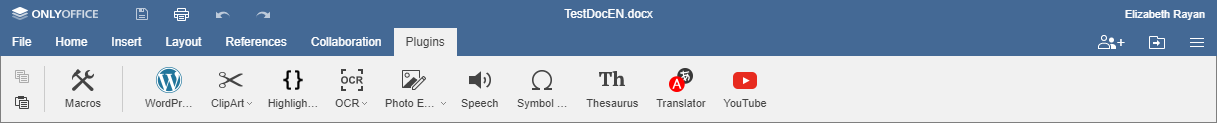
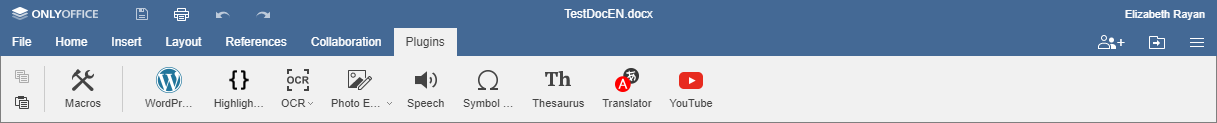
Changes to the documentation for version 5.4

Changed region(s): [[0.1561, 0.561, 0.4059, 0.7317], [0.1561, 0.8049, 0.6557, 0.878], [0.4371, 0.561, 0.6245, 0.7561]]

diff --git a/OfficeWeb/apps/documenteditor/main/resources/help/ru/UsageInstructions/AddWatermark.htm b/OfficeWeb/apps/documenteditor/main/resources/help/ru/UsageInstructions/AddWatermark.htm
@@ -1,0 +1,51 @@
+<!DOCTYPE html>
+<html>
+	<head>
+		<title>Добавление подложки</title>
+		<meta charset="utf-8" />
+        <meta name="description" content="Watermark allow to indicate your document status (for example, confidential, draft etc.)" />
+		<link type="text/css" rel="stylesheet" href="../editor.css" />
+        <script type="text/javascript" src="../callback.js"></script>
+        <script type="text/javascript" src="../search/js/page-search.js"></script>
+	</head>
+	<body>
+		<div class="mainpart">
+        <div class="search-field">
+            <input id="search" class="searchBar" placeholder="Search" type="text" onkeypress="doSearch(event)">
+        </div>
+			<h1>Добавление подложки</h1>
+            <p>Watermark allow to indicate your document status (for example, confidential, draft etc.).</p>
+			<p>Для добавления подложки в документ:</p>
+			<ol>
+                <li>перейдите на вкладку <b>Макет</b> на верхней панели инструментов,</li>
+                <li>нажмите на значок <img alt="Значок Подложка" src="../images/watermark.png" /> <b>Подложка</b> на верхней панели инструментов и выберите пункт меню <b>Настраиваемая подложка</b>,</li>
+                <li>откроется окно <b>Параметры подложки</b> window will appear where you can specify the watermark parameters,
+                    <p><img alt="Окно Параметры подложки" src="../images/watermark_settings.png" /></p>
+                </li>
+                <li>Выберите тип подложки, которую требуется вставить:
+                    <ul>
+                        <li>Используйте опцию <b>Текстовая подложка</b> и настройте доступные параметры:
+                            <ul>
+                                <li><b>Язык</b> - выберите из списка один из доступных языков,</li>
+                                <li><b>Текст</b> - выберите один из доступных примеров текста на выбранном языке. Для русского языка доступны следующие тексты подложки: <em>ДЛЯ СЛУЖЕБНОГО ПОЛЬЗОВАНИЯ</em>, <em>ДСП</em>, <em>КОПИРОВАТЬ НЕ РАЗРЕШАЕТСЯ</em>, <em>КОПИЯ</em>, <em>ЛИЧНОЕ</em>, <em>ОБРАЗЕЦ</em>, <em>ОРИГИНАЛ</em>, <em>СЕКРЕТНО</em>, <em>СОВ. СЕКРЕТНО</em>, <em>СОВЕРШЕННО СЕКРЕТНО</em>, <em>СРОЧНО</em>, <em>ЧЕРНОВИК</em>.</li>
+                                <li><b>Шрифт</b> - select the font name and size from the corresponding drop-down lists. Use the icons to set the font color or apply one of the decoration styles: <em>Bold</em>, <em>Italic</em>, <em>Underline</em>, <em>Strikeout</em>,</li>
+                                <li><b>Полупрозрачный</b> - check this box if you want to apply transparency,</li>
+                                <li><b>Расположение</b> - select the <b>По диагонали</b> or <b>По горизонтали</b> option.</li>
+                            </ul>
+                        </li>
+                        <li>Используйте опцию <b>Графическая подложка</b> и настройте доступные параметры:
+                            <ul>
+                                <li>Choose the image file source using one of the buttons: <b>Из файла</b> или <b>По URL</b> - the image will be displayed in the preview window on the right,</li>
+                                <li><b>Масштаб</b> - select the necessary scale value from the available ones: <em>Авто</em>, <em>500%</em>, <em>200%</em>, <em>150%</em>, <em>100%</em>, <em>50%</em>.</li>
+                            </ul>
+                        </li>
+                    </ul>
+                </li>
+                <li>Нажмите кнопку <b>OK</b>.</li>
+			</ol>
+            <p>To edit the added watermark, open the <b>Watermark Settings</b> window as described above, change the necessary parameters and click <b>OK</b>.</p>
+            <p>To delete the added watermark click the <img alt="Watermark icon" src="../images/watermark.png" /> <b>Watermark</b> icon at the <b>Layout</b> tab of the top toolbar and choose the <b>Remove Watermark</b> option from the menu. It's also possible to use the <b>None</b> option in the <b>Watermark Settings</b> window.</p>
+            
+		</div>
+	</body>
+</html>

diff --git a/OfficeWeb/apps/documenteditor/main/resources/help/ru/UsageInstructions/ViewDocInfo.htm b/OfficeWeb/apps/documenteditor/main/resources/help/ru/UsageInstructions/ViewDocInfo.htm
@@ -16,7 +16,16 @@
             <h1>Просмотр сведений о документе</h1>
             <p>Чтобы получить доступ к подробным сведениям о редактируемом документе, нажмите на вкладку <b>Файл</b> на верхней панели инструментов и выберите опцию <b>Сведения о документе...</b>.</p>
             <h3>Общие сведения</h3>
-            <p>Сведения о документе включают название документа, приложение, в котором был создан документ, а также статистику: количество страниц, абзацев, слов, символов, символов с пробелами. <span class="onlineDocumentFeatures">В <em>онлайн-версии</em> также отображаются следующие сведения: автор, размещение, дата создания.</span></p>
+            <p>Сведения о документе включают в себя ряд свойств файла, описывающих документ. Некоторые из этих свойств обновляются автоматически, а некоторые из них можно редактировать.</p>
+            <ul>
+                <li class="onlineDocumentFeatures"><b>Размещение</b> - папка в модуле <b>Документы</b>, в которой хранится файл. <b>Владелец</b> - имя пользователя, который создал файл. <b>Загружен</b> - дата и время создания файла. Эти свойства доступны только в <em>онлайн-версии</em>.</li>
+                <li><b>Статистика</b> - количество страниц, абзацев, слов, символов, символов с пробелами.</li>
+                <li><b>Название</b>, <b>Тема</b>, <b>Комментарий</b> - эти свойства позволяют упростить классификацию документов. Вы можете задать нужный текст в полях свойств.</li>
+                <li><b>Последнее изменение</b> - дата и время последнего изменения файла.</li>
+                <li class="onlineDocumentFeatures"><b>Автор последнего изменения</b> - имя пользователя, сделавшего последнее изменение в документе. Это свойство доступно только в <em>онлайн-версии</em>.</li>
+                <li><b>Приложение</b> - приложение, в котором был создан документ.</li>
+                <li><b>Автор</b> - имя человека, создавшего файл. В этом поле вы можете ввести нужное имя. Нажмите <em>Enter</em>, чтобы добавить новое поле, позволяющее указать еще одного автора.</li>
+            </ul>
             <div class="onlineDocumentFeatures">
                 <p class="note"><b>Примечание</b>: используя онлайн-редакторы, вы можете изменить название документа непосредственно из интерфейса редактора. Для этого нажмите на вкладку <b>Файл</b> на верхней панели инструментов и выберите опцию <b>Переименовать...</b>, затем введите нужное <b>Имя файла</b> в новом открывшемся окне и нажмите кнопку <b>OK</b>.</p>
             </div>    

diff --git a/OfficeWeb/apps/documenteditor/main/resources/help/en/UsageInstructions/AddWatermark.htm b/OfficeWeb/apps/documenteditor/main/resources/help/en/UsageInstructions/AddWatermark.htm
@@ -1,0 +1,51 @@
+<!DOCTYPE html>
+<html>
+	<head>
+		<title>Add watermark</title>
+		<meta charset="utf-8" />
+        <meta name="description" content="Watermark allow to indicate your document status (for example, confidential, draft etc.)" />
+		<link type="text/css" rel="stylesheet" href="../editor.css" />
+        <script type="text/javascript" src="../callback.js"></script>
+        <script type="text/javascript" src="../search/js/page-search.js"></script>
+	</head>
+	<body>
+		<div class="mainpart">
+        <div class="search-field">
+            <input id="search" class="searchBar" placeholder="Search" type="text" onkeypress="doSearch(event)">
+        </div>
+			<h1>Add watermark</h1>
+            <p>Watermark allow to indicate your document status (for example, confidential, draft etc.).</p>
+			<p>To add a watermark within a document:</p>
+			<ol>
+                <li>switch to the <b>Layout</b> tab of the top toolbar,</li>
+                <li>click the <img alt="Watermark icon" src="../images/watermark.png" /> <b>Watermark</b> icon at the top toolbar and choose the <b>Custom Watermark</b> option from the menu,</li>
+                <li>after that the <b>Watermark Settings</b> window will appear where you can specify the watermark parameters,
+                    <p><img alt="Watermark Settings window" src="../images/watermark_settings.png" /></p>
+                </li>
+                <li>Select a watermark type you wish to insert:
+                    <ul>
+                        <li>Use the <b>Text watermark</b> option and adjust the available parameters:
+                            <ul>
+                                <li><b>Language</b> - select one of the available languages from the list,</li>
+                                <li><b>Text</b> - select one of the available text examples on the selected language. For English, the following watermark texts are available: <em>ASAP</em>, <em>CONFIDENTIAL</em>, <em>COPY</em>, <em>DO NOT COPY</em>, <em>DRAFT</em>, <em>ORIGINAL</em>, <em>PERSONAL</em>, <em>SAMPLE</em>, <em>TOP SECRET</em>, <em>URGENT</em>.</li>
+                                <li><b>Font</b> - select the font name and size from the corresponding drop-down lists. Use the icons to set the font color or apply one of the decoration styles: <em>Bold</em>, <em>Italic</em>, <em>Underline</em>, <em>Strikeout</em>,</li>
+                                <li><b>Semitransparent</b> - check this box if you want to apply transparency,</li>
+                                <li><b>Layout</b> - select the <b>Diagonal</b> or <b>Horizontal</b> option.</li>
+                            </ul>
+                        </li>
+                        <li>Use the <b>Image watermark</b> option and adjust the available parameters:
+                            <ul>
+                                <li>Choose the image file source using one of the buttons: <b>From File</b> or <b>From URL</b> - the image will be displayed in the preview window on the right,</li>
+                                <li><b>Scale</b> - select the necessary scale value from the available ones: <em>Auto</em>, <em>500%</em>, <em>200%</em>, <em>150%</em>, <em>100%</em>, <em>50%</em>.</li>
+                            </ul>
+                        </li>
+                    </ul>
+                </li>
+                <li>Click the <b>OK</b> button.</li>
+			</ol>
+            <p>To edit the added watermark, open the <b>Watermark Settings</b> window as described above, change the necessary parameters and click <b>OK</b>.</p>
+            <p>To delete the added watermark click the <img alt="Watermark icon" src="../images/watermark.png" /> <b>Watermark</b> icon at the <b>Layout</b> tab of the top toolbar and choose the <b>Remove Watermark</b> option from the menu. It's also possible to use the <b>None</b> option in the <b>Watermark Settings</b> window.</p>
+            
+		</div>
+	</body>
+</html>

diff --git a/OfficeWeb/apps/documenteditor/main/resources/help/en/UsageInstructions/ViewDocInfo.htm b/OfficeWeb/apps/documenteditor/main/resources/help/en/UsageInstructions/ViewDocInfo.htm
@@ -16,9 +16,18 @@
 			<h1>View document information</h1>
 			<p>To access the detailed information about the currently edited document, click the <b>File</b> tab of the top toolbar and select the <b>Document Info...</b> option.</p>
 			<h3>General Information</h3>
-            <p>The document information includes document title, the application the document was created with and statistics: the number of pages, paragraphs, words, symbols, symbols with spaces. <span class="onlineDocumentFeatures">In the <em>online version</em>, the following information is also displayed: author, location, creation date.</span></p>
+            <p>The document information includes a number of the file properties which describe the document. Some of these properties are updated automatically, and some of them can be edited.</p>
+            <ul>
+                <li class ="onlineDocumentFeatures"><b>Location</b> - the folder in the <b>Documents</b> module where the file is stored. <b>Owner</b> - the name of the user who have created the file. <b>Uploaded</b> - the date and time when the file has been created. These properties are available in the <em>online version</em> only.</li>
+                <li><b>Statistics</b> - the number of pages, paragraphs, words, symbols, symbols with spaces.</li>
+                <li><b>Title</b>, <b>Subject</b>, <b>Comment</b> - these properties allow to simplify your documents classification. You can specify the necessary text in the properties fields.</li>
+                <li><b>Last Modified</b> - the date and time when the file was last modified.</li>
+                <li class="onlineDocumentFeatures"><b>Last Modified By</b> - the name of the user who have made the latest change in the document. This property is available in the <em>online version</em> only.</li>
+                <li><b>Application</b> - the application the document was created with.</li>
+                <li><b>Author</b> - the person who have created the file. You can enter the necessary name in this field. Press <em>Enter</em> to add a new field that allows to specify one more author.</li>
+            </ul>
             <div class="onlineDocumentFeatures">
-                <p class="note"><b>Note</b>: Online Editors allow you to change the document title directly from the editor interface. To do that, click the <b>File</b> tab of the top toolbar and select the <b>Rename...</b> option, then enter the necessary <b>File name</b> in a new window that opens and click <b>OK</b>.</p>
+                <p class="note"><b>Note</b>: Online Editors allow you to change the document name directly from the editor interface. To do that, click the <b>File</b> tab of the top toolbar and select the <b>Rename...</b> option, then enter the necessary <b>File name</b> in a new window that opens and click <b>OK</b>.</p>
             </div>  
                 <div class="onlineDocumentFeatures">
                     <h3>Permission Information</h3>

diff --git a/OfficeWeb/apps/presentationeditor/main/resources/help/ru/ProgramInterface/PluginsTab.htm b/OfficeWeb/apps/presentationeditor/main/resources/help/ru/ProgramInterface/PluginsTab.htm
@@ -30,7 +30,6 @@
                 <li class="desktopDocumentFeatures"><b>Отправить</b> - позволяет отправить презентацию по электронной почте с помощью десктопного почтового клиента по умолчанию (доступно только в <em>десктопной версии</em>),</li>
                 <li class="desktopDocumentFeatures"><b>Аудио</b> - позволяет вставлять в презентацию аудиозаписи, сохраненные на жестком диске (доступно только в <em>десктопной версии</em>),</li>
                 <li class="desktopDocumentFeatures"><b>Видео</b> - позволяет вставлять в презентацию видеозаписи, сохраненные на жестком диске (доступно только в <em>десктопной версии</em>),</li>
-                <li><b>Клипарт</b> позволяет добавлять в презентацию изображения из коллекции картинок,</li>
                 <li><b>Подсветка кода</b> - позволяет подсвечивать синтаксис кода, выбирая нужный язык, стиль, цвет фона,</li>
                 <li><b>Фоторедактор</b> - позволяет редактировать изображения: обрезать, отражать, поворачивать их, рисовать линии и фигуры, добавлять иконки и текст, загружать маску и применять фильтры, такие как Оттенки серого, Инверсия, Сепия, Размытие, Резкость, Рельеф и другие,</li>
                 <li><b>Таблица символов</b> позволяет вставлять в текст специальные символы,</li>

diff --git a/OfficeWeb/apps/documenteditor/main/resources/help/ru/ProgramInterface/LayoutTab.htm b/OfficeWeb/apps/documenteditor/main/resources/help/ru/ProgramInterface/LayoutTab.htm
@@ -29,7 +29,8 @@
                 <li>добавлять <a href="../UsageInstructions/SetPageParameters.htm#columns" onclick="onhyperlinkclick(this)">колонки</a>,</li>
                 <li>вставлять <a href="../UsageInstructions/PageBreaks.htm" onclick="onhyperlinkclick(this)">разрывы страниц</a>, <a href="../UsageInstructions/SectionBreaks.htm" onclick="onhyperlinkclick(this)">разрывы разделов</a> и <a href="../UsageInstructions/SetPageParameters.htm#columns" onclick="onhyperlinkclick(this)">разрывы колонок</a>,</li>
                 <li>выравнивать и располагать в определенном порядке объекты (<a href="../UsageInstructions/InsertTables.htm" onclick="onhyperlinkclick(this)">таблицы</a>, <a href="../UsageInstructions/InsertImages.htm" onclick="onhyperlinkclick(this)">изображения</a>, <a href="../UsageInstructions/InsertCharts.htm" onclick="onhyperlinkclick(this)">диаграммы</a>, <a href="../UsageInstructions/InsertAutoshapes.htm" onclick="onhyperlinkclick(this)">фигуры</a>),</li>
-                <li>изменять <a href="../UsageInstructions/ChangeWrappingStyle.htm" onclick="onhyperlinkclick(this)">стиль обтекания</a>.</li>
+                <li>изменять <a href="../UsageInstructions/ChangeWrappingStyle.htm" onclick="onhyperlinkclick(this)">стиль обтекания</a>,</li>
+                <li>добавлять <a href="../UsageInstructions/AddWatermark.htm" onclick="onhyperlinkclick(this)">подложку</a>.</li>
             </ul>
 		</div>
 	</body>

diff --git a/OfficeWeb/apps/documenteditor/main/resources/help/ru/ProgramInterface/PluginsTab.htm b/OfficeWeb/apps/documenteditor/main/resources/help/ru/ProgramInterface/PluginsTab.htm
@@ -28,7 +28,6 @@
             <p>В настоящее время по умолчанию доступны следующие плагины:</p>		
             <ul>
                 <li class="desktopDocumentFeatures"><b>Отправить</b> - позволяет отправить документ по электронной почте с помощью десктопного почтового клиента по умолчанию (доступно только в <em>десктопной версии</em>),</li>
-                <li><b>Клипарт</b> - позволяет добавлять в документ изображения из коллекции картинок,</li>
                 <li><b>Подсветка кода</b> - позволяет подсвечивать синтаксис кода, выбирая нужный язык, стиль, цвет фона,</li>
                 <li><b>Распознавание текста</b> - позволяет распознавать текст с картинки и вставлять его в текст документа,</li>
                 <li><b>Фоторедактор</b> - позволяет редактировать изображения: обрезать, отражать, поворачивать их, рисовать линии и фигуры, добавлять иконки и текст, загружать маску и применять фильтры, такие как Оттенки серого, Инверсия, Сепия, Размытие, Резкость, Рельеф и другие,</li>

diff --git a/OfficeWeb/apps/spreadsheeteditor/main/resources/help/ru/ProgramInterface/PluginsTab.htm b/OfficeWeb/apps/spreadsheeteditor/main/resources/help/ru/ProgramInterface/PluginsTab.htm
@@ -28,7 +28,6 @@
             <p>В настоящее время по умолчанию доступны следующие плагины:</p>		
             <ul>
                 <li class="desktopDocumentFeatures"><b>Отправить</b> - позволяет отправить таблицу по электронной почте с помощью десктопного почтового клиента по умолчанию (доступно только в <em>десктопной версии</em>),</li>
-                <li><b>Клипарт</b> - позволяет добавлять в электронную таблицу изображения из коллекции картинок,</li>
                 <li><b>Подсветка кода</b> - позволяет подсвечивать синтаксис кода, выбирая нужный язык, стиль, цвет фона,</li>
                 <li><b>Фоторедактор</b> - позволяет редактировать изображения: обрезать, отражать, поворачивать их, рисовать линии и фигуры, добавлять иконки и текст, загружать маску и применять фильтры, такие как Оттенки серого, Инверсия, Сепия, Размытие, Резкость, Рельеф и другие,</li>
                 <li><b>Таблица символов</b> - позволяет вставлять в текст специальные символы,</li>

diff --git a/OfficeWeb/apps/documenteditor/main/resources/help/en/ProgramInterface/LayoutTab.htm b/OfficeWeb/apps/documenteditor/main/resources/help/en/ProgramInterface/LayoutTab.htm
@@ -29,7 +29,8 @@
                 <li>add <a href="../UsageInstructions/SetPageParameters.htm#columns" onclick="onhyperlinkclick(this)">columns</a>,</li>
                 <li>insert <a href="../UsageInstructions/PageBreaks.htm" onclick="onhyperlinkclick(this)">page breaks</a>, <a href="../UsageInstructions/SectionBreaks.htm" onclick="onhyperlinkclick(this)">section breaks</a> and <a href="../UsageInstructions/SetPageParameters.htm#columns" onclick="onhyperlinkclick(this)">column breaks</a>,</li>
                 <li>align and arrange objects (<a href="../UsageInstructions/InsertTables.htm" onclick="onhyperlinkclick(this)">tables</a>, <a href="../UsageInstructions/InsertImages.htm" onclick="onhyperlinkclick(this)">pictures</a>, <a href="../UsageInstructions/InsertCharts.htm" onclick="onhyperlinkclick(this)">charts</a>, <a href="../UsageInstructions/InsertAutoshapes.htm" onclick="onhyperlinkclick(this)">shapes</a>),</li>
-                <li>change <a href="../UsageInstructions/ChangeWrappingStyle.htm" onclick="onhyperlinkclick(this)">wrapping style</a>.</li>
+                <li>change <a href="../UsageInstructions/ChangeWrappingStyle.htm" onclick="onhyperlinkclick(this)">wrapping style</a>,</li>
+                <li>add a <a href="../UsageInstructions/AddWatermark.htm" onclick="onhyperlinkclick(this)">watermark</a>.</li>
             </ul>
 		</div>
 	</body>

diff --git a/OfficeWeb/apps/presentationeditor/main/resources/help/en/ProgramInterface/PluginsTab.htm b/OfficeWeb/apps/presentationeditor/main/resources/help/en/ProgramInterface/PluginsTab.htm
@@ -30,7 +30,6 @@
                 <li class="desktopDocumentFeatures"><b>Send</b> allows to send the presentation via email using the default desktop mail client (available in the <em>desktop version</em> only),</li>
                 <li class="desktopDocumentFeatures"><b>Audio</b> allows to insert audio records stored on the hard disk drive into your presentation (available in the <em>desktop version</em> only),</li>
                 <li class="desktopDocumentFeatures"><b>Video</b> allows to insert video records stored on the hard disk drive into your presentation (available in the <em>desktop version</em> only),</li>
-                <li><b>ClipArt</b> allows to add images from the clipart collection into your presentation,</li>
                 <li><b>Highlight code</b> allows to highlight syntax of the code selecting the necessary language, style, background color,</li>
                 <li><b>PhotoEditor</b> allows to edit images: crop, flip, rotate them, draw lines and shapes, add icons and text, load a mask and apply filters such as Grayscale, Invert, Sepia, Blur, Sharpen, Emboss, etc.,</li>
                 <li><b>Symbol Table</b> allows to insert special symbols into your text,</li>

diff --git a/OfficeWeb/apps/documenteditor/main/resources/help/en/ProgramInterface/PluginsTab.htm b/OfficeWeb/apps/documenteditor/main/resources/help/en/ProgramInterface/PluginsTab.htm
@@ -28,7 +28,6 @@
             <p>Currently, the following plugins are available by default:</p>		
             <ul>
                 <li class="desktopDocumentFeatures"><b>Send</b> allows to send the document via email using the default desktop mail client (available in the <em>desktop version</em> only),</li>
-                <li><b>ClipArt</b> allows to add images from the clipart collection into your document,</li>
                 <li><b>Highlight code</b> allows to highlight syntax of the code selecting the necessary language, style, background color,</li>
                 <li><b>OCR</b> allows to recognize text included into a picture and insert it into the document text,</li>
                 <li><b>PhotoEditor</b> allows to edit images: crop, flip, rotate them, draw lines and shapes, add icons and text, load a mask and apply filters such as Grayscale, Invert, Sepia, Blur, Sharpen, Emboss, etc.,</li>

diff --git a/OfficeWeb/apps/spreadsheeteditor/main/resources/help/en/ProgramInterface/PluginsTab.htm b/OfficeWeb/apps/spreadsheeteditor/main/resources/help/en/ProgramInterface/PluginsTab.htm
@@ -28,7 +28,6 @@
             <p>Currently, the following plugins are available:</p>		
             <ul>
                 <li class="desktopDocumentFeatures"><b>Send</b> allows to send the spreadsheet via email using the default desktop mail client (available in the <em>desktop version</em> only),</li>
-                <li><b>ClipArt</b> allows to add images from the clipart collection into your spreadsheet,</li>
                 <li><b>Highlight code</b> allows to highlight syntax of the code selecting the necessary language, style, background color,</li>
                 <li><b>PhotoEditor</b> allows to edit images: crop, flip, rotate them, draw lines and shapes, add icons and text, load a mask and apply filters such as Grayscale, Invert, Sepia, Blur, Sharpen, Emboss, etc.,</li>
                 <li><b>Symbol Table</b> allows to insert special symbols into your text,</li>
